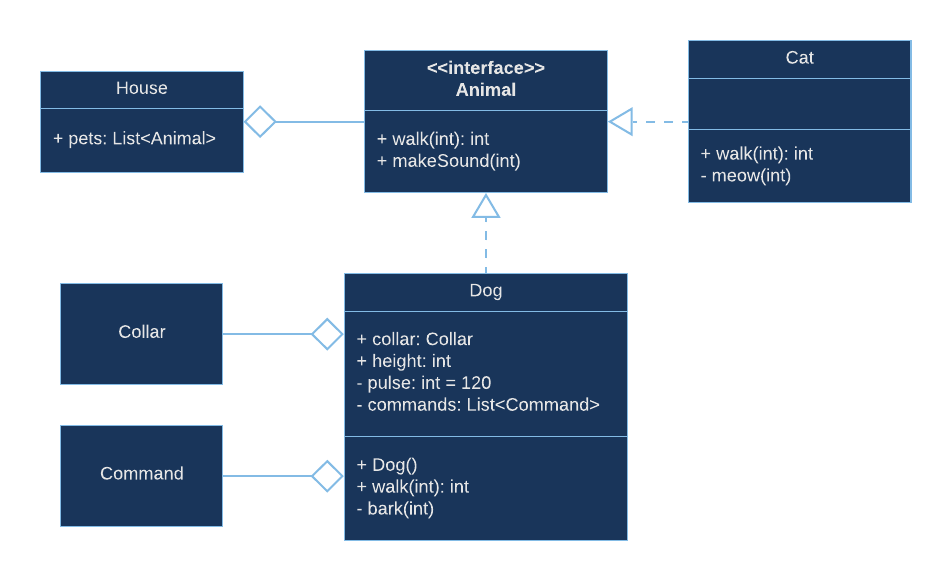
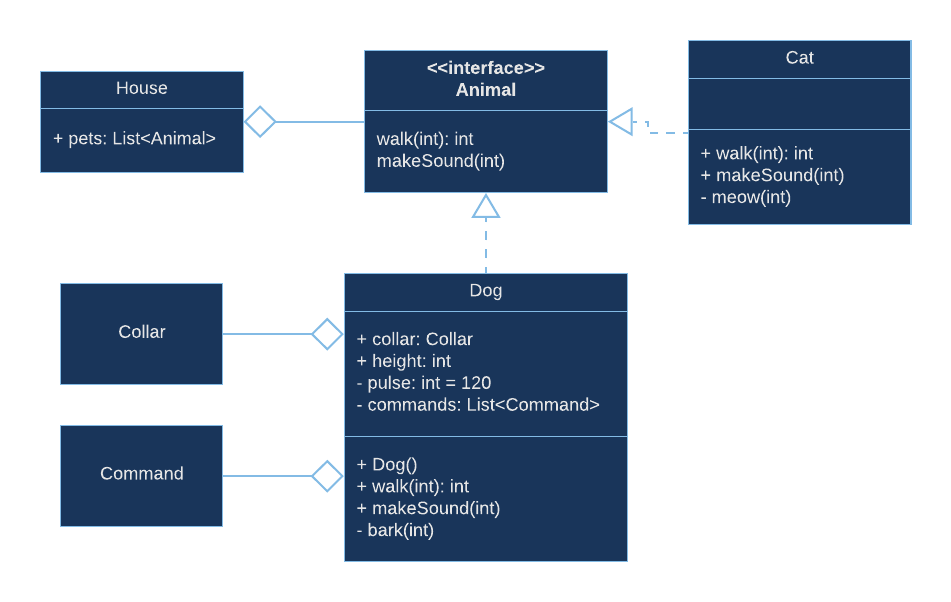
Part 8 finished

diff --git a/08-mixed-runway-demo.md b/08-mixed-runway-demo.md
@@ -13,13 +13,13 @@ The flexibility will be embodied in ability to compose different kinds of light 
 Specifically, we will need one line of lights to work in toggling mode and the other - in colorful mode.
 
 We're going to discuss the current structure of the code and what needs to change.
-The best way to discuss code structure is by referencing to UML diagrams.
+The best way to discuss code structure is by referencing UML diagrams.
 
 ## UML class diagrams
 
 UML diagrams are de facto standard for depicting software structure.
 There are different kinds of UML diagrams.
-The one we are going to use is called "class diagrams".
+The one we are going to use is called "class diagram".
 
 Here is an example of UML class diagram.
 
@@ -28,41 +28,48 @@ Here is an example of UML class diagram.
 Each of the blocks in the diagram is called "class", because they represent classes in the code.
 
 There are several kinds of class blocks in UML.
-In the example diagram above we can see blocks with different number of sections.
+In the example diagram above we can see blocks with different number of sections and different decorations.
 They are all still classes.
-The difference is that it wasn't important what is in the `Collar` or `Command` classes, so all the sections were omitted except the __mandatory__ one - the __name section__.
+The difference in sections is that it wasn't important what is in the `Collar` or `Command` classes, so all the sections were omitted except the __mandatory__ one - the __name section__.
+Also, `<<interface>>` is a special kind of class that can't have any class variables.
 
 When __two sections__ are present in a class block, the first section always has the name of the class and the second section always has class variables.
+`<<interface>>` is an exception from this rule for the reason pointed above.
 
 When __three sections__ are present in a class block, the first two sections are the same as in the two-section block and the third section always has methods.
 
 __Class variables__ are defined in the following way:
-- access sign _(optional)_: `+` for public access (like for `collar` in `Dog`), `-` for private access (like for `pulse` in `Dog`), or omitted if it isn't important; in the example all variables are public
-- variable name: like `collar` in class `Dog`
-- type: like `Collar` for the `collar` variable in class `Dog`
-- default value _(optional)_: like `120` for `pulse` in class `Dog`
+- access level _(optional)_: plus sign (`+`) for public access (e.g. for `collar` in `Dog`), minus sign (`-`) for private access (e.g. for `pulse` in `Dog`), or omitted if it isn't important
+- variable name: e.g. `collar` in class `Dog`
+- type: e.g. `Collar` for the `collar` variable in class `Dog`
+- default value _(optional)_: e.g. `120` for `pulse` in class `Dog`
 
 __Methods__ are defined as follows:
-- access sign _(optional)_: same as for class variables
-- method name: like `bark` in class `Dog`
-- argument types in parentheses _(optional, comma separated)_: like `int` in method `bark` in class `Dog`; if none, then empty parenthesis, like method `Dog` in `Dog` class (which is also a constructor)
-- return type _(optional)_: like `int` in method `walk` in class `Dog`; method `bark` in class `Dog` doesn't have return type (i.e. `void`), so doesn't method `Dog` as it is a constructor
+- access level _(optional)_: same as for class variables
+- method name: e.g. `bark` in class `Dog`
+- argument types in parentheses _(optional, comma separated)_: e.g. `int` in method `bark` in class `Dog`; if none, then empty parenthesis, e.g. method `Dog` in `Dog` class (which is also a constructor)
+- return type _(optional)_: e.g. `int` in method `walk` in class `Dog`; method `bark` in class `Dog` doesn't have return type (i.e. `void`), so doesn't method `Dog` as it is a constructor
 
 There are also two kinds of connections between classes in the example.
 
 The __diamond connection__ represents _aggregation_.
 Aggregation means that instance of one class can be contained in instance of another class.
-In the example, an instance of class `Collar` is contained in class `Dog` in variable `collar`.
+In the example, an instance of class `Collar` is contained in `Dog` in variable `collar`.
 
-The __numbers on the other end of aggregation connection__ tells how many instances can be contained.
-In the example there can be only one instance of class `Collar` in class `Dog`.
-There also can be zero or more instances of class `Command` in class `Dog`. Same for instances of `Animal` in class `House`.
+The __numbers on the other end of aggregation__ connection tells how many instances may be contained.
+In the example there can be only one instance of class `Collar` in `Dog`.
+There also may be zero or more instances of class `Command` in `Dog`. Same for instances of `Animal` in `House`.
 
 The __empty arrow with dash line__ connection represents a _realization_.
 That means that a class _realizes_ (or _implements_) an _abstract class_ or _interface_.
+Notice how both classes that implement interface `Animal` have the same methods the interface has.
+That is because they must implement methods that are declared in interface.
 More on interfaces below.
 
 ## What we need to change
+
+First, let's create a new project and name it `SEtut8`.
+Then, create all the same classes as we had in project `SEtut7` and copy their contents.
 
 Current state of our program is already composed of multiple classes, which makes it quite easy to refactor for our demo needs.
 But there is one component that is still missing.
@@ -77,7 +84,7 @@ Moreover, we will not have different variables for different managers, as that w
 There is a very convenient way to accomplish the flexibility we need - _interfaces_.
 
 `Interface` is quite simple, but powerful concept.
-It allows different classes that implement a particular interface, to have different behavior, but be still treated exactly the same.
+It allows different classes that implement a particular interface, to have different behavior, but still be treated exactly the same.
 
 So, our list will contain a `Manager` type, which we will make an interface. That interface will declare only one method - `tick`. Then, both managers will implement that interface by implementing the `tick` method. And that is it!
 
@@ -86,8 +93,8 @@ The diagram depicting the new structure is shown below.
 ![UML multi-manager](assets/img/08-uml-multi-manager.png)
 
 The diagram communicates two important statements:
-1. Any class that implements interface `Manager` can be added to the list `managers` in class `Program`.
-2. It is possible to call method `tick` on any object that is in list `managers` in class `Program`.
+1. Any class that implements interface `Manager` can be added to the list `managers` (class `Program`).
+2. It is possible to call method `tick` on any object that is in list `managers` (class `Program`).
 
 So, let's get to it.
 
@@ -98,7 +105,7 @@ First, let's add an interface and name it `Manager`.
 Next, declare method `tick` without return type and without arguments.
 Two things to remember about methods declared in an interface:
 - they can never have body
-- they can never have access specified (e.g. `public` or `private`).
+- they can never have access level specified (e.g. `public` or `private`).
 
 Here is the result:
 
@@ -121,25 +128,93 @@ The easiest way to do that:
 
 After that we need to rename class `LightKeeperManager` to `ColorfulManager` the same way.
 
-Now we are ready to create other light keepers and managers.
-
-So, create utility classes `TogglingLightKeeper` and `TogglingManager` as described in the last diagram.
+Now we are ready to create `TogglingManager`.
+So, create utility class `TogglingManager` as described in the last diagram.
 That includes all class variables and methods.
 
 Remember that both managers need to implement interface `Manager`?
 Let's do this.
 
 A class can extend another class or implement an interface by specifying the name of the other class/interface after its own name separated by colon.
-In the case of `TogglingManager` it would look like the following
+In the case of `TogglingManager` it would look like
 
 ```csharp
+...
 public class TogglingManager : Manager
+...
 ```
 
 and for `ColorfulManager`
 
 ```csharp
+...
 public class ColorfulManager : Manager
+...
 ```
 
-Let's now make `TogglingLightKeeper` useful.
+Let's now make `TogglingManager` useful.
+
+First of all, did you assign the list of lights that is passed as an argument to the `TogglingManager`'s constructor to the private class variable `lights`?
+If not, do that.
+Then, we need to disable all the lights in the line first.
+Remember that constructor of an object is executed only once - when object is created.
+That makes constructor the perfect place to disable all the lights when the script starts. We did that before in [part 2](02-first-script), but in different class.
+
+Then, according to how it was done in [part 2](02-first-script), we need to toggle the light that is pointed to by the `index` class variable.
+After that `index` must be incremented.
+
+To prevent `index` from exceeding number of elements in list `lights`, we need to do the same thing with `index` as we did in [part 2](02-first-script).
+
+Ok, looks like toggling should be fine now. Let's refactor class `Program` to support multiple managers.
+
+According to the diagram, class `Program` should have class variable `managers` as a list of type `Manager`.
+What UML diagrams don't show is the actual implementation, because from the diagram's standpoint it is not important.
+But it is important from PB's standpoint.
+
+Remember that no variable can be used until it has value (line `int`) or references an object (like `List`)?
+So, create a list (in other words, create an instance) of corresponding type and assign it to variable `managers`.
+We can do that right where the list is declared or in constructor, but before it is referenced anywhere in the code.
+
+Here is the code for the constructor. Replace whatever it has now.
+
+```csharp
+public Program()
+{
+    Runtime.UpdateFrequency = UpdateFrequency.Update1;
+
+    List<IMyInteriorLight> lights = new List<IMyInteriorLight>();
+    IMyBlockGroup group = GridTerminalSystem.GetBlockGroupWithName("Runway Lights");
+    group.GetBlocksOfType(lights);
+    lights.Sort((x, y) => x.DisplayNameText.CompareTo(y.DisplayNameText));
+
+    List<IMyInteriorLight> line1 = lights.Where((x, i) => i % 2 == 0).ToList();
+    List<IMyInteriorLight> line2 = lights.Where((x, i) => i % 2 == 1).ToList();
+
+    managers.Add(new ColorfulManager(line1));
+    managers.Add(new TogglingManager(line2));
+}
+```
+
+Now, in method `Main` we need to iterate over all managers in list `managers` and call method `tick` on each of the managers.
+
+Let's check if the script works at this point.
+
+If you've got an error in PB, check that the loop variable in method `Main` is of type `Manager`.
+If it is of any of the concrete types, then we get an error like "Unable to cast object of type TogglingManager to type ColorfulManager".
+That is because in list `managers` we have two managers of completely different types (they don't extend each other).
+But they are both of type `Manager` as they both implement that interface.
+
+Fix all the issues you might have and let's adjust the script a little bit.
+
+Have you noticed how fast the toggling line goes?
+That is because in [part 2](02-first-script) we toggled lights only _every 10 game ticks_ according to how script ticks were set up in constructor.
+But in this version we have script ticks set to _every game tick_.
+
+If we simply change it to _every 10 game ticks_, then the colorful line would change its color so slow that we would barely notice the change.
+
+This is where the variable `counter` in `TogglingManager` comes to play.
+We should use it to count ticks and only toggle lights and increment `index` when `counter` has reached certain value, let's say every 5 game ticks.
+In order for that to ever happen, `counter` needs to be incremented by 1 every time method `tick` is called.
+It also needs to be reset to 0 every time it reaches that set value.
+
+So, compile the script and check in PB again. Both lines should now go at normal pace.
